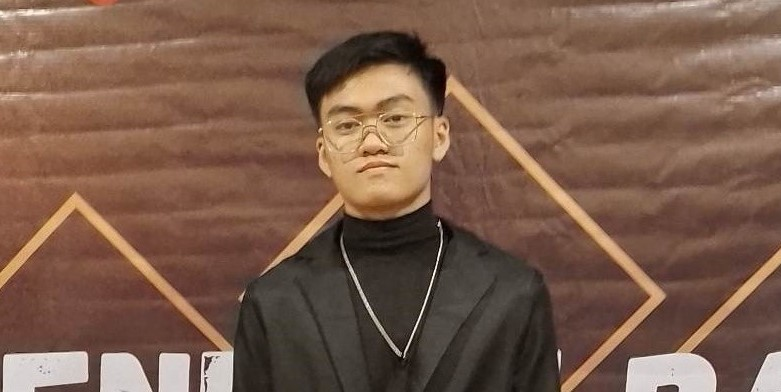
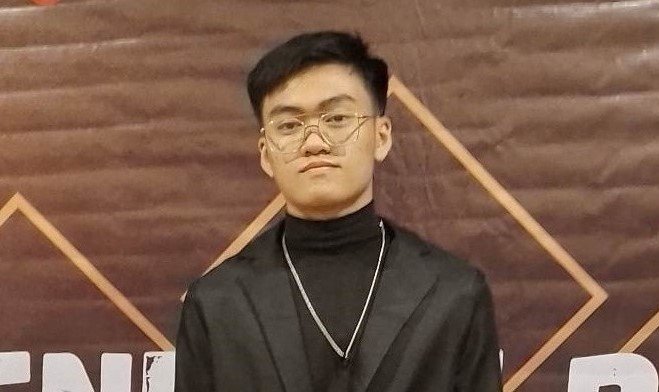
turned donate into its own section

diff --git a/assets/stylesheets/home.css b/assets/stylesheets/home.css
@@ -27,7 +27,7 @@ body.dark-mode {
 }
 
 .dark-mode
-.button1 {
+.cv-button {
   border: #ffffff 1px solid;
 }
 
@@ -48,8 +48,7 @@ body.dark-mode {
   z-index: 1000;
 }
 
-.notification
-.message {
+.notification {
   display: block; /* or display: inline-block; */
   margin-bottom: 10px; /* adjust the margin as needed */
 }
@@ -62,18 +61,8 @@ body.dark-mode {
   cursor: pointer;
 }
 
-.link-button {
-  cursor: pointer;
-  background-color: #4CAF50;
-  color: white;
-  padding: 10px 15px;
-  border: none;
-  border-radius: 5px;
-  margin-right: 10px; /* Adjust as needed */
-}
-
 /* =====================================================THIS IS THE ENTIRE CONTENT FOR THE ENTIRE PAGE===================================================== */
-/* ========================= UPPER ========================== */
+/* ============== upper =============== */
 
 .top {
   text-align: center;
@@ -103,7 +92,7 @@ body.dark-mode {
   color: #888888;
 }
 
-.button1 {
+.cv-button {
   text-decoration: none;
   height: 60px;
   width: 170px;
@@ -117,14 +106,14 @@ body.dark-mode {
   transition: background-color 0.3s, color 0.3s;
 }
 
-.button1:hover {
+.cv-button:hover {
   background: linear-gradient(to bot, #5e64da, #9ea2f8);
   transform: scale(1.03);
   transition: 0.3s ease;
 }
 
 @media (max-width: 600px) {
-  .button1 {
+  .cv-button {
   width: 100%;
   max-width: 80px;
   height: auto;
@@ -132,4 +121,26 @@ body.dark-mode {
   font-size: 0.5em;
   padding: 5px 10px;
   }
+}
+
+/* ============== campaign =============== */
+.banner {
+  padding: 2%;
+  background-color: #2b2828;
+  height: 150px;;
+  flex-direction: column;
+  justify-content: center;
+  text-align: center;
+}
+
+
+.link-button {
+  height: auto;
+  width: 80px;
+  cursor: pointer;
+  background-color: #4CAF50;
+  color: white;
+  padding: 10px 15px;
+  border: none;
+  border-radius: 5px;
 }

diff --git a/index.html b/index.html
@@ -25,7 +25,6 @@
 
     <div id="notification" class="notification">
         <span class="message">Website under development and not optimized.</span>
-        <span class="message">We support Ukraine and Palestine! (or whoever are the 'good guys' in these wars) <button class="link-button" onclick="window.location.href='donate.html'">Donate</button></span>
         <span class="close" onclick="closeNotification()">&times;</span>
     </div>
 
@@ -43,8 +42,16 @@
             </div>
             <div class="bttn">
                 <a href="https://youtu.be/a3Z7zEc7AXQ" target="_blank">
-                    <button class="button1">Curriculum Vitae</button>
+                    <button class="cv-button">Curriculum Vitae</button>
                 </a>
+            </div>
+        </div>
+
+        <div class="campaign">
+            <div class="banner">
+                <h2>STOP THE WAR!</h2>
+                <br />
+                <button class="link-button" onclick="window.location.href='donate.html'">Donate</button>
             </div>
         </div>
     </div>

diff --git a/assets/scripts/index.js b/assets/scripts/index.js
@@ -9,6 +9,6 @@ notification.style.display = "block";
 
 window.addEventListener('resize', function () {
     var image = document.getElementById('landscape-image');
-    var newSrc = window.innerWidth <= 600 ? 'assets/images/homeImg2.jpg' : 'assets/images/homeImg.jpg';
+    var newSrc = window.innerWidth <= 700 ? 'assets/images/homeImg2.jpg' : 'assets/images/homeImg.jpg';
     image.src = newSrc;
   });
